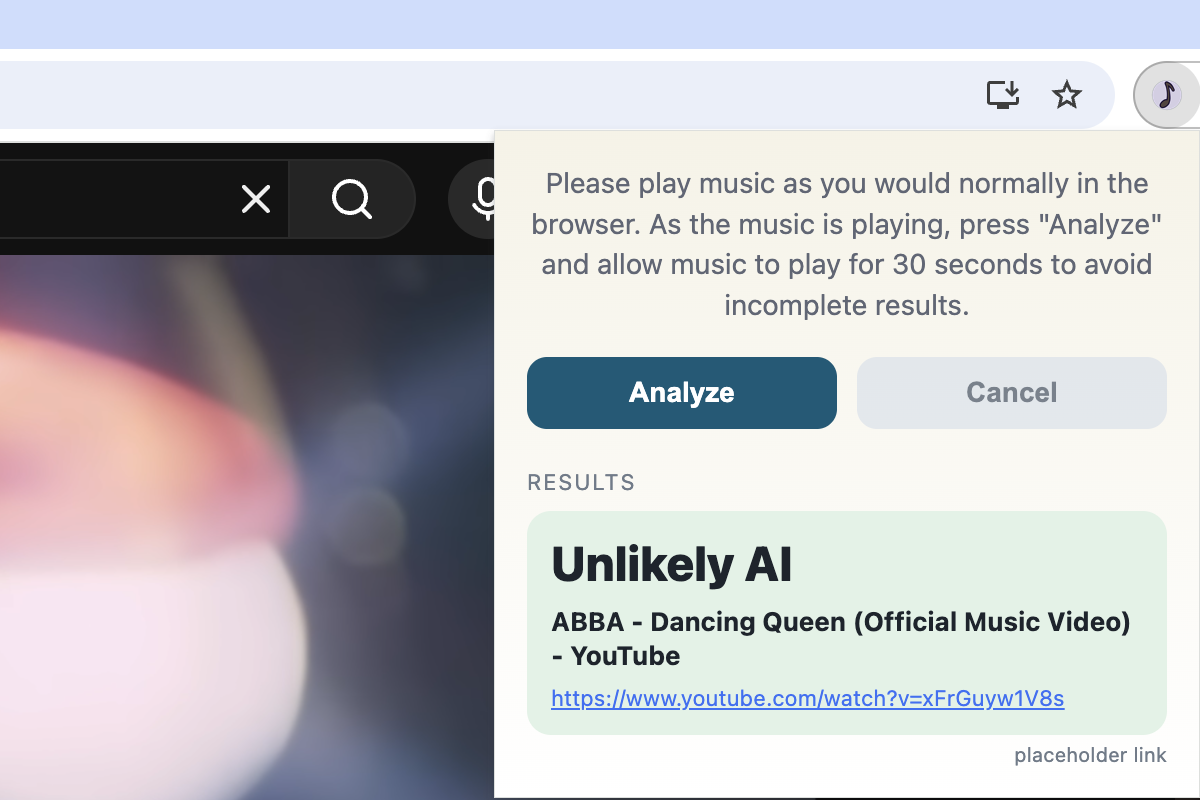
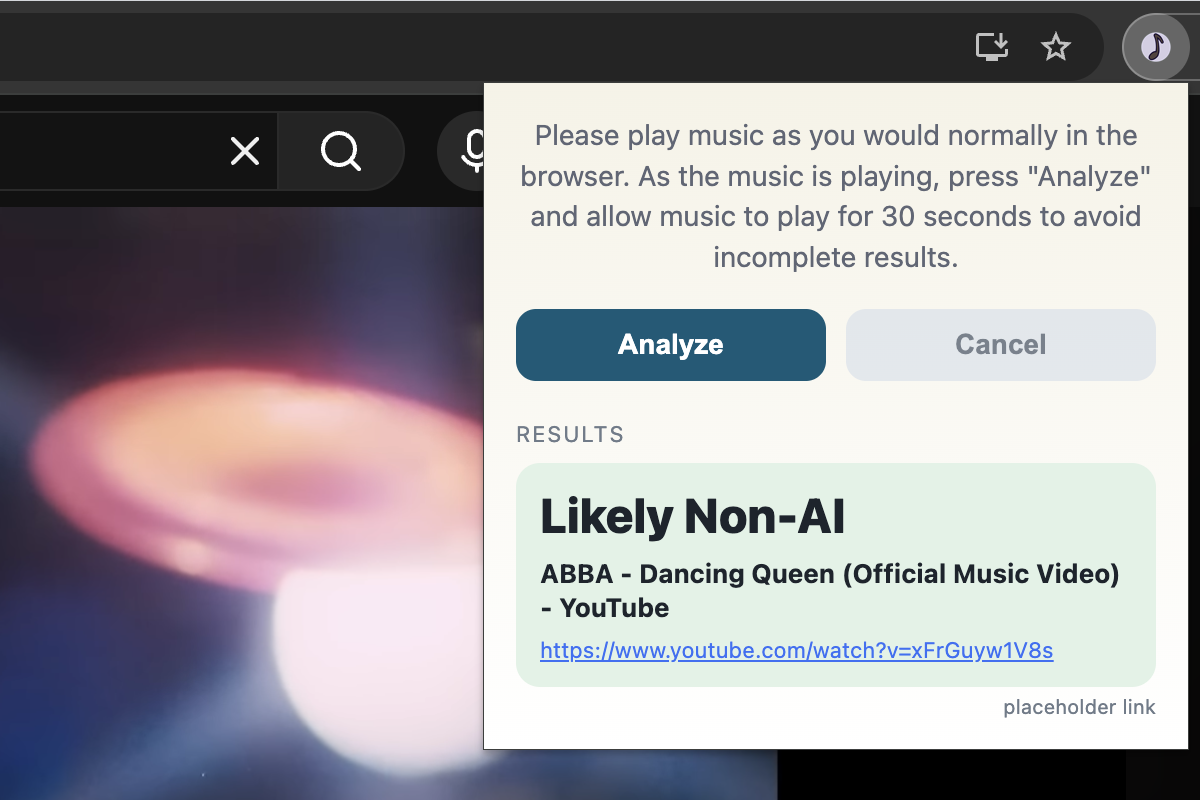
update to likely non-AI and update README

diff --git a/chromium/offscreen.js b/chromium/offscreen.js
@@ -231,8 +231,8 @@ async function completeInference(sessionSnapshot, flattenedPcm) {
 
     const completedAt = Date.now();
     const score = numericScore;
-    const verdict = score > 0.8 ? "Likely AI" : "Unlikely AI";
-    const displayScore = verdict === "Unlikely AI" ? null : score;
+    const verdict = score > 0.8 ? "Likely AI" : "Likely Non-AI";
+    const displayScore = verdict === "Likely Non-AI" ? null : score;
     const historyEntry = {
         sessionId: sessionSnapshot.sessionId,
         normalizedUrl: sessionSnapshot.normalizedUrl,

diff --git a/chromium/popup.js b/chromium/popup.js
@@ -331,10 +331,10 @@ function setProgress(percent) {
 function renderResultItem({ title, url, verdict, probability, meta, warning, pending }) {
     const verdictClass = pending
         ? "pending"
-        : verdict?.toLowerCase().includes("unlikely")
-            ? "unlikely"
+        : verdict?.toLowerCase().includes("non-ai")
+            ? "non-ai"
             : verdict?.toLowerCase().includes("likely")
-                ? "likely"
+                ? "ai"
                 : "";
 
     resultsList.innerHTML = `

diff --git a/chromium/popup.html b/chromium/popup.html
@@ -90,11 +90,11 @@
             background: #f0f4f8;
         }
 
-        .result-item.unlikely {
+        .result-item.non-ai {
             background: #e6f4ea;
         }
 
-        .result-item.likely {
+        .result-item.ai {
             background: #fde8e8;
         }
 

diff --git a/README.md b/README.md
@@ -15,18 +15,10 @@ After you have installed Quicksilver through your browser's extension store, ple
 ### Using Quicksilver
 Quicksilver directly analyzes the audio that comes from your browser. All you need to do is play music as you would normally, then click the "Analyze" button in the Quicksilver extension. After clicking "Analyze", please do not pause/reload the page, and allow the music to play for a full 30 seconds to avoid incomplete results. Please refer to the following screenshots for examples.
 
-<figure>
-  <img src="./chromium/assets/screenshot-1.png" alt="Analyzing audio">
-  <figcaption>Analyzing audio</figcaption>
-</figure>
-<figure>
-  <img src="./chromium/assets/screenshot-2.png" alt="AI detected">
-  <figcaption>AI detected</figcaption>
-</figure>
-<figure>
-  <img src="./chromium/assets/screenshot-3.png" alt="AI not detected">
-  <figcaption>AI not detected</figcaption>
-</figure>
+| | | |
+|---|---|---|
+| <p align="center">Analyzing audio</p> | <p align="center">AI detected</p> | <p align="center">AI not detected</p> |
+| <p align="center"><img src="./chromium/assets/screenshot-1.png" width="300"></p> | <p align="center"><img src="./chromium/assets/screenshot-2.png" width="300"></p> | <p align="center"><img src="./chromium/assets/screenshot-3.png" width="300"></p> |
 
 Notes:
 * Your computer does not need to be unmuted for Quicksilver to analyze audio. However, the site in which you stream audio from should not be muted. Quicksilver will warn you if it detects a significant amount of silence in the analyzed audio.
